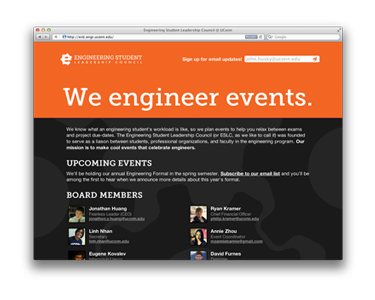
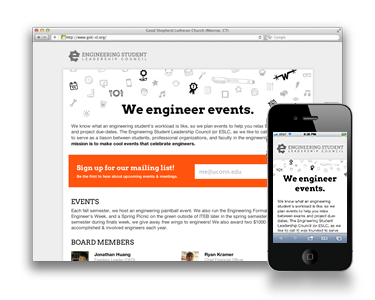
Updated ESLC website in portfolio. No longer looking for summer internship.

diff --git a/portfolio/index.html b/portfolio/index.html
@@ -28,7 +28,7 @@
 			<h2><a href="http://eslc.engr.uconn.edu/">UConn ESLC</a></h2>
 			<p class="date">December 2011</a></p>
 			
-			<p>As designer for the Engineering Student Leadership Council at UConn, I created a new logo &amp; brand identity for the club, and designed a matching website. I also made a MailChimp newsletter with a matching custom-designed theme to inform students of upcoming events and meetings.</p>
+			<p>As designer for the Engineering Student Leadership Council at UConn, I created a new logo &amp; brand identity for the club, and designed a matching responsive website. I also made a MailChimp newsletter with a matching custom-designed theme to inform students of upcoming events and meetings.</p>
 			</div>
     </div>
     
@@ -82,7 +82,7 @@
 			</div>
 		</div>
 		<h2>Like what you see?</h2>
-	  <p>My <a href="resume.pdf" class="important">r&eacute;sum&eacute;</a> is available for download as a PDF. I'm currently looking for a summer internship in the tech industry. I'm also available for freelance work. If you want to contact me for work or just to chat, send me a note at <a href="mailto:david@dfurnes.com" class="important">david@dfurnes.com</a>.</p>
+	  <p>My <a href="resume.pdf" class="important">r&eacute;sum&eacute;</a> is available for download as a PDF. I'm excited to spend this summer as a Web Developer intern at <a href="http://www.dosomething.org">Do Something</a>. I'm also available for freelance work. If you want to contact me for work or just to chat, send me a note at <a href="mailto:david@dfurnes.com" class="important">david@dfurnes.com</a>.</p>
   </div>
 </body>
 

diff --git a/index.html b/index.html
@@ -33,7 +33,7 @@
   
     <p class="intro"><strong>My passion is creating things that make life more enjoyable.</strong> I believe in writing clean &amp; efficient code, and designing interfaces that are both intuitive and delightful to use. I'm currently studying <a href="http://www.cse.uconn.edu/cms/">Computer Science</a> and <a href="http://psych.uconn.edu/">Psychology</a> at the <a href="http://www.uconn.edu/">University of Connecticut</a>.</p>
     <h2>Like what you see?</h2>
-    <p>My <a href="resume.pdf" class="important">r&eacute;sum&eacute;</a> is available for download as a PDF. I'm currently looking for a summer internship in the tech industry. I'm also available for freelance work. If you want to contact me for work or just to chat, send me a note at <a href="mailto:david@dfurnes.com" class="important">david@dfurnes.com</a>.</p>
+    <p>My <a href="resume.pdf" class="important">r&eacute;sum&eacute;</a> is available for download as a PDF. I'm excited to spend this summer as a Web Developer intern at <a href="http://www.dosomething.org">Do Something</a>. I'm also available for freelance work. If you want to contact me for work or just to chat, send me a note at <a href="mailto:david@dfurnes.com" class="important">david@dfurnes.com</a>.</p>
   </div>  
 </body>
 
